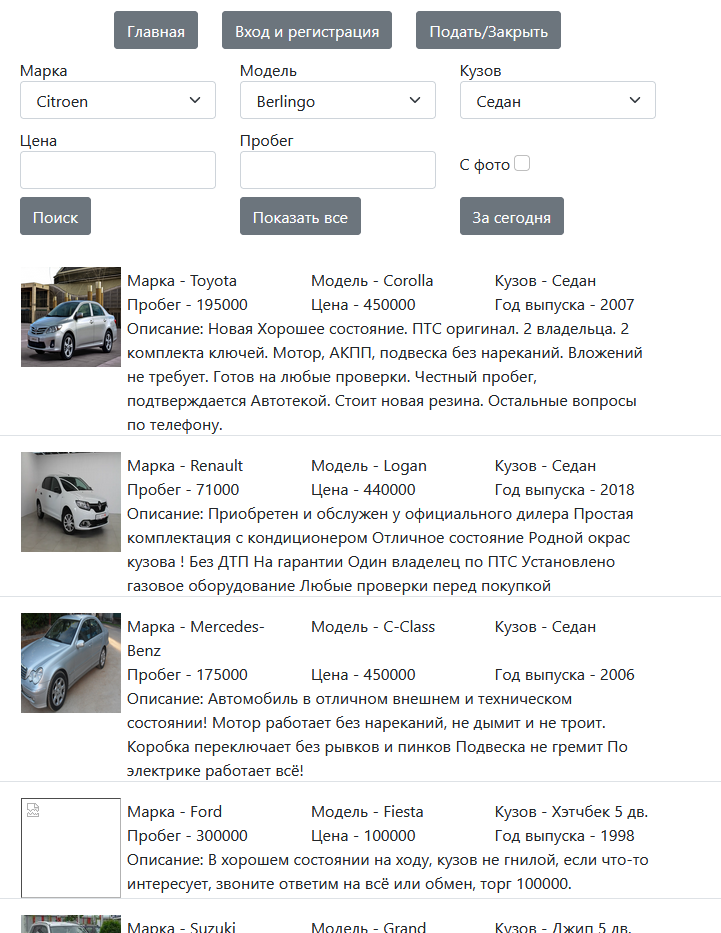
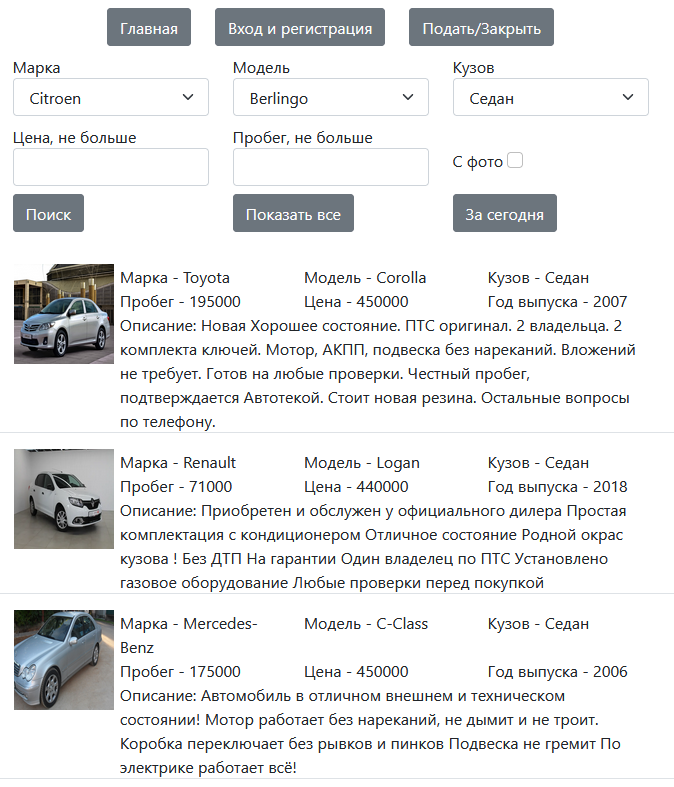
update images

diff --git a/src/main/java/ru/drom/dao/DaoAdvert.java b/src/main/java/ru/drom/dao/DaoAdvert.java
@@ -41,17 +41,17 @@ public class DaoAdvert implements Dao<Advert> {
                     .list());
         }
         if (mileage == 0 & price != 0 & photo) {  // make+model+type - with photo and price
-            return hibernateConnect.sessionMethodsWithReturn(session -> session.createQuery(basicSql + mmt + " and advert.photoId not in (0) and advert.price = :price")
+            return hibernateConnect.sessionMethodsWithReturn(session -> session.createQuery(basicSql + mmt + " and advert.photoId not in (0) and advert.price <= :price")
                     .setParameter("model", model).setParameter("make", make).setParameter("type", type).setParameter("price", price)
                     .list());
         }
         if (mileage != 0 & price != 0 & photo) {  // make+model+type - with photo,price and mileage
-            return hibernateConnect.sessionMethodsWithReturn(session -> session.createQuery(basicSql + mmt + " and advert.photoId not in (0) and advert.price = :price and advert.mileage = :mileage")
+            return hibernateConnect.sessionMethodsWithReturn(session -> session.createQuery(basicSql + mmt + " and advert.photoId not in (0) and advert.price <= :price and advert.mileage <= :mileage")
                     .setParameter("model", model).setParameter("make", make).setParameter("type", type).setParameter("price", price).setParameter("mileage", mileage)
                     .list());
         }
         if (mileage != 0 & price == 0 & !photo) {  // make+model+type - with mileage
-            return hibernateConnect.sessionMethodsWithReturn(session -> session.createQuery(basicSql + mmt + " and advert.mileage = :mileage")
+            return hibernateConnect.sessionMethodsWithReturn(session -> session.createQuery(basicSql + mmt + " and advert.mileage <= :mileage")
                     .setParameter("model", model).setParameter("make", make).setParameter("type", type).setParameter("mileage", mileage)
                     .list());
         }
@@ -61,12 +61,12 @@ public class DaoAdvert implements Dao<Advert> {
                     .list());
         }
         if (mileage == 0 & price != 0 & !photo) {  // make+model+type - with price
-            return hibernateConnect.sessionMethodsWithReturn(session -> session.createQuery(basicSql + mmt + " and advert.price = :price")
+            return hibernateConnect.sessionMethodsWithReturn(session -> session.createQuery(basicSql + mmt + " and advert.price <= :price")
                     .setParameter("model", model).setParameter("make", make).setParameter("type", type).setParameter("price", price)
                     .list());
         }
         if (mileage != 0 & price == 0 & photo) {  // make+model+type - with mileage and photo
-            return hibernateConnect.sessionMethodsWithReturn(session -> session.createQuery(basicSql + mmt + " and advert.photoId not in (0) and advert.mileage = :mileage")
+            return hibernateConnect.sessionMethodsWithReturn(session -> session.createQuery(basicSql + mmt + " and advert.photoId not in (0) and advert.mileage <= :mileage")
                     .setParameter("model", model).setParameter("make", make).setParameter("type", type).setParameter("mileage", mileage)
                     .list());
         }
